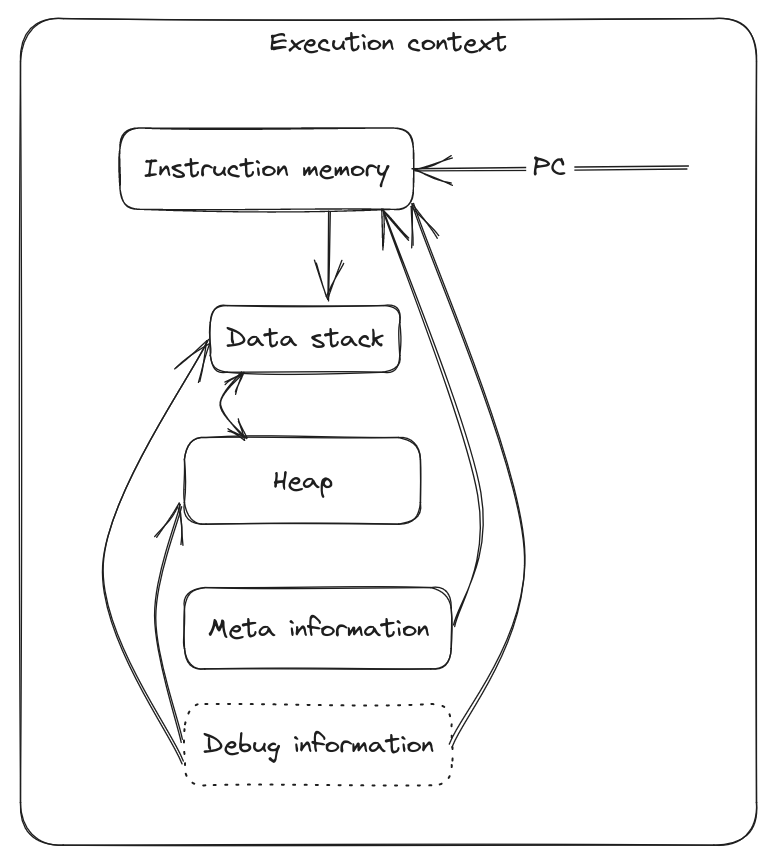
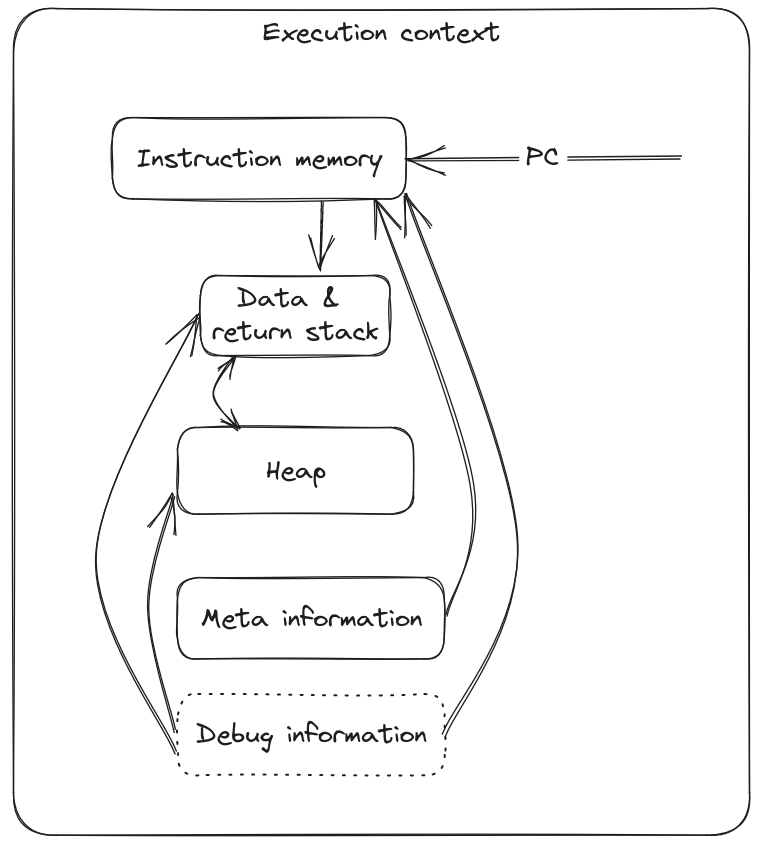
Add execution context and instruction skeleton

diff --git a/sahara/src/instruction.rs b/sahara/src/instruction.rs
@@ -1,0 +1,35 @@
+#[repr(u8)]
+pub enum Opcode {
+    ConstU8,
+    ConstU16,
+    ConstU32,
+    ConstU64,
+    ConstI8,
+    ConstI16,
+    ConstI32,
+    ConstI64,
+}
+
+impl From<Opcode> for u8 {
+    fn from(value: Opcode) -> Self {
+        value as u8
+    }
+}
+
+impl From<u8> for Opcode {
+    fn from(value: u8) -> Self {
+        match value {
+            0 => Self::ConstU8,
+            1 => Self::ConstU16,
+            2 => Self::ConstU32,
+            3 => Self::ConstU64,
+            4 => Self::ConstI8,
+            5 => Self::ConstI16,
+            6 => Self::ConstI32,
+            7 => Self::ConstI64,
+            _ => panic!("encountered unknown opcode: {}", value),
+        }
+    }
+}
+
+pub struct Instruction {}

diff --git a/sahara/src/util/stack.rs b/sahara/src/util/stack.rs
@@ -1,0 +1,29 @@
+pub struct Stack<T> {
+    items: Vec<T>,
+}
+
+impl<T> Stack<T> {
+    pub fn new() -> Self {
+        Stack { items: Vec::new() }
+    }
+
+    pub fn push(&mut self, item: T) {
+        self.items.push(item);
+    }
+
+    pub fn pop(&mut self) -> Option<T> {
+        self.items.pop()
+    }
+
+    pub fn peek(&self) -> Option<&T> {
+        self.items.last()
+    }
+
+    pub fn is_empty(&self) -> bool {
+        self.items.is_empty()
+    }
+
+    pub fn len(&self) -> usize {
+        self.items.len()
+    }
+}

diff --git a/sahara/src/execution_context.rs b/sahara/src/execution_context.rs
@@ -1,0 +1,28 @@
+use generational_arena::Arena;
+
+use crate::instruction::Instruction;
+use crate::util::stack::Stack;
+use crate::value::Value;
+
+struct Location(u64);
+
+struct Program {
+    instructions: Vec<Instruction>,
+}
+
+struct MetaInformation {}
+
+struct DebugInformation {}
+
+struct Heap {
+    arena: Arena<Value>,
+}
+
+pub struct ExecutionContext {
+    program: Program,
+    data: Stack<Value>,
+    callstack: Stack<Location>,
+    meta: MetaInformation,
+    heap: Heap,
+    debug: Option<DebugInformation>,
+}

diff --git a/sahara/src/lib.rs b/sahara/src/lib.rs
@@ -1,0 +1,4 @@
+mod execution_context;
+mod instruction;
+mod util;
+mod value;

diff --git a/sahara/src/value.rs b/sahara/src/value.rs
@@ -1,0 +1,1 @@
+pub enum Value {}

diff --git a/sahara/src/util/mod.rs b/sahara/src/util/mod.rs
@@ -1,0 +1,1 @@
+pub mod stack;

diff --git a/docs/sahara/execution-context.md b/docs/sahara/execution-context.md
@@ -18,6 +18,11 @@ The data stack contains values that need not persist beyond the scope of a singl
 move data between the heap and the data stack, allowing compilers to define the lifetime of data as it moves through the
 execution of a program.
 
+## Return stack
+
+The return stack contains the addresses of functions as they're invoked within the VM. This allows execution to easily
+continue at the appropriate point upon completion of function execution.
+
 ## Heap
 
 The heap stores data that must persist beyond the scope of a single stack frame. Unlike most other virtual machines, a
